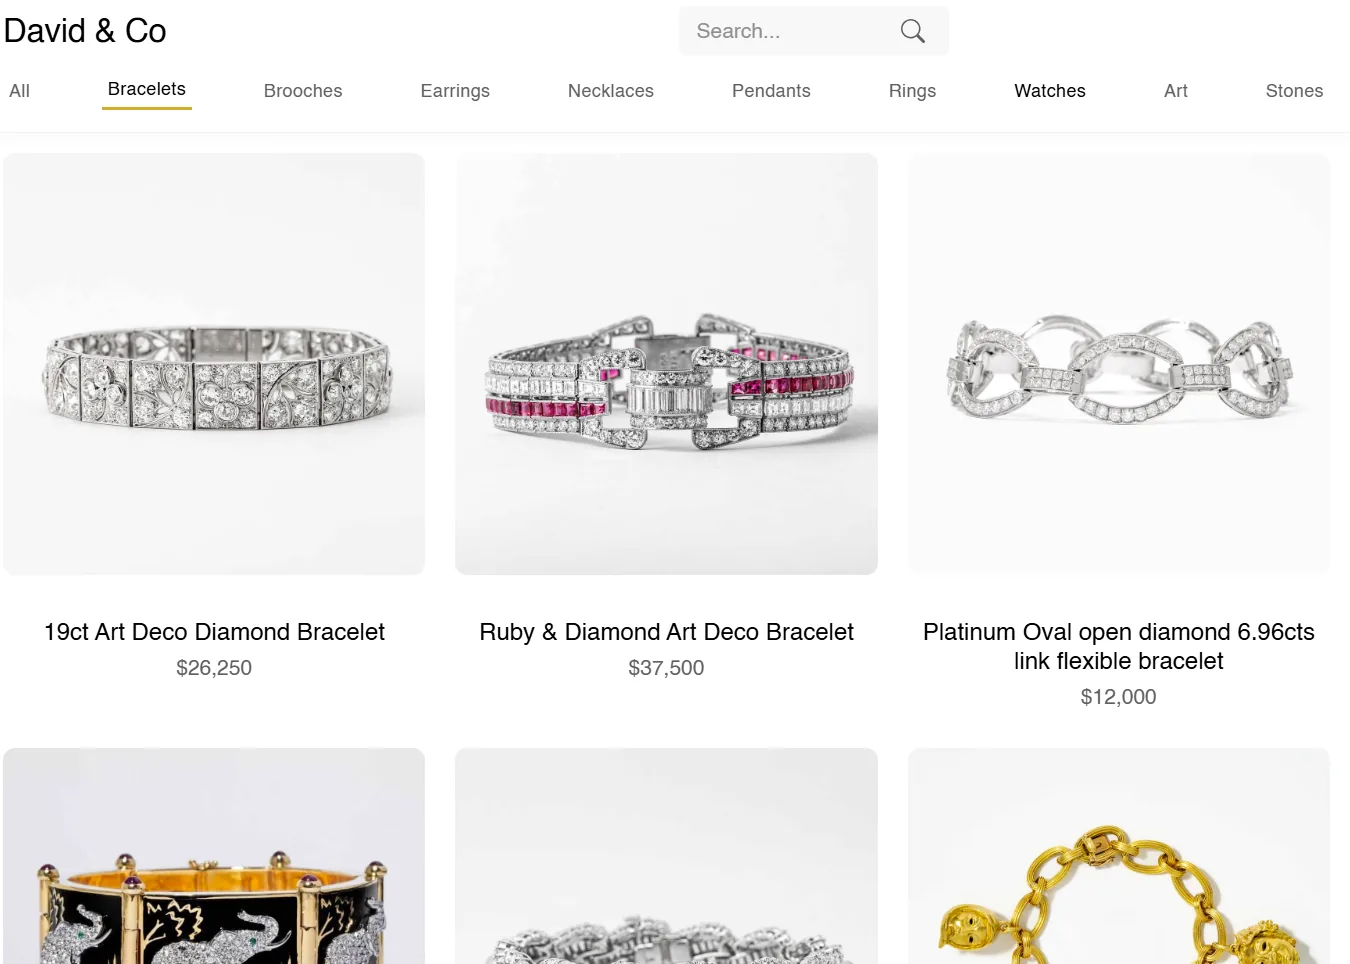
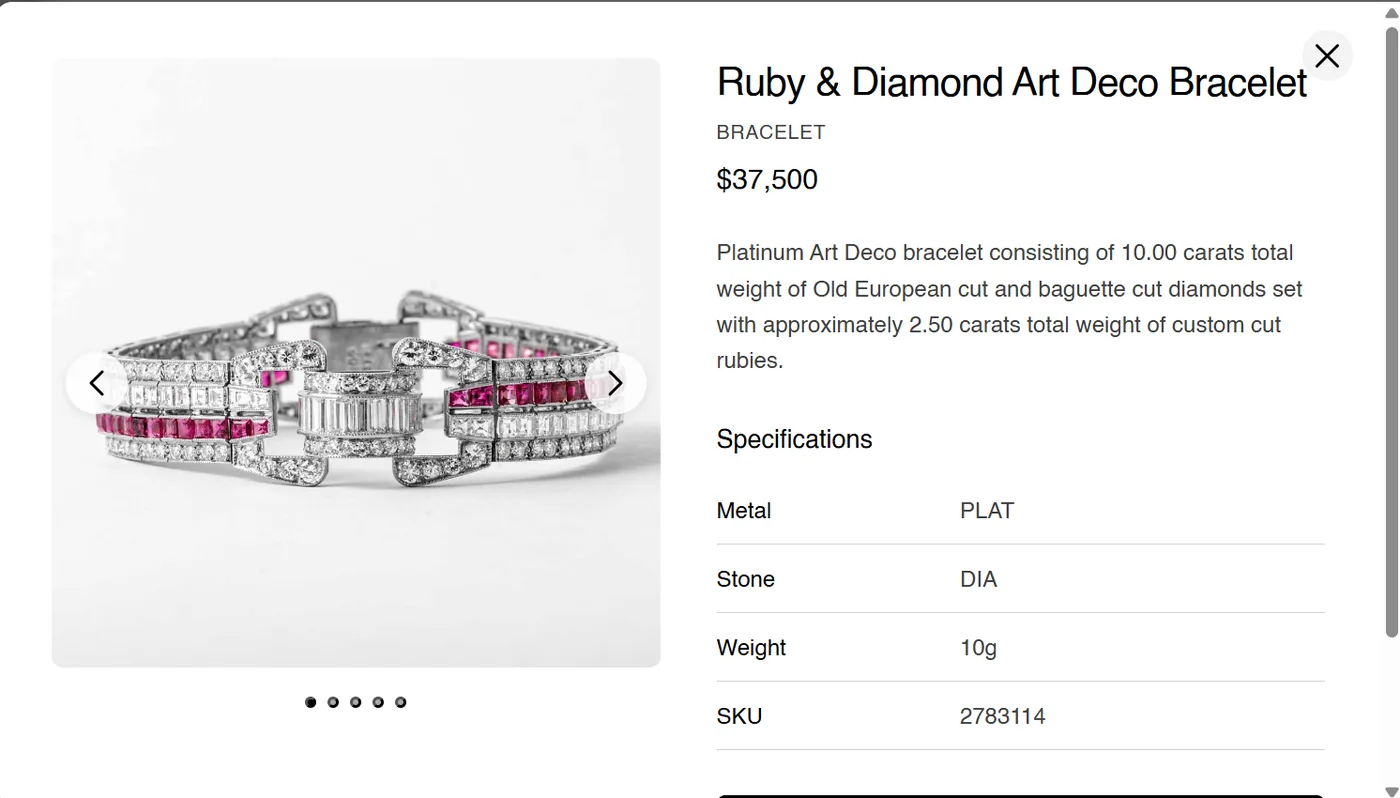
vid

diff --git a/src/lib/content.ts b/src/lib/content.ts
@@ -120,16 +120,16 @@ export const projects: Project[] = [
   {
     title: 'Mobile Commerce App',
     sub: 'Product Lead · Sole Engineer',
-    src: '/media/work-mobile.webp',
+    src: '/media/work-mobile.webp', // poster: shown before play, on pause, and under reduced motion
[1 lines of base64/hex data omitted]
     fit: 'contain',
-    href: undefined,
+    video: { mp4: '/media/clip0.mp4' },
   },
   {
     title: 'B2B Wholesale Network',
     sub: '$4.6M Inventory · GTM',
     src: '/media/work-wholesale.webp',
[2 lines of base64/hex data omitted]
     fit: 'cover',
     href: contact.linkedin,
   },
@@ -147,6 +147,20 @@ export const projects: Project[] = [
     sub: 'Python · GCP',
     src: '/media/work-etl.webp',
[1 lines of base64/hex data omitted]
+    fit: 'cover',
+  },
+  {
+    title: 'PAC Sitting',
+    sub: 'Pet Care Platform · Design & Build',
+    src: '/media/work-pac.webp',
[1 lines of base64/hex data omitted]
+    fit: 'cover',
+  },
+  {
+    title: 'Close Property Services',
+    sub: 'Local Services Site · Design & Build',
+    src: '/media/work-closeprop.webp',
[1 lines of base64/hex data omitted]
     fit: 'cover',
   },
 ]

diff --git a/src/components/Work.tsx b/src/components/Work.tsx
@@ -16,7 +16,7 @@ export default function Work() {
           </Reveal>
         </Parallax>
         <Reveal delay={0.1}>
-          <p>Real builds — product, platform, agents, and the pipelines behind them.</p>
+          <p>Real builds — products, client sites, agents, and the pipelines behind them.</p>
         </Reveal>
       </div>
 